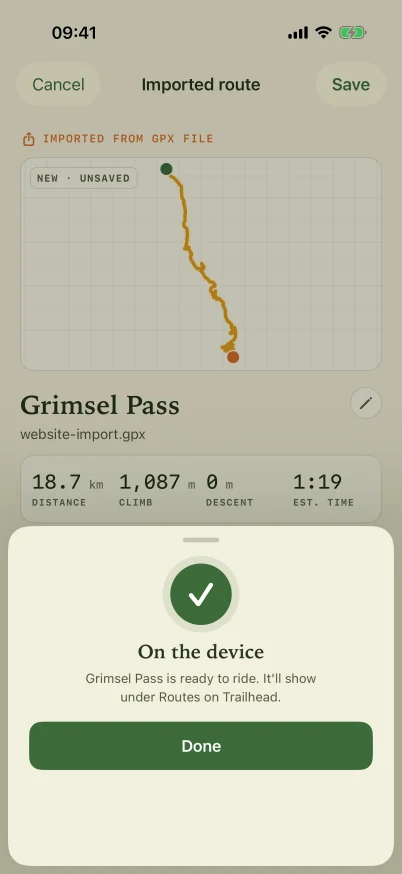
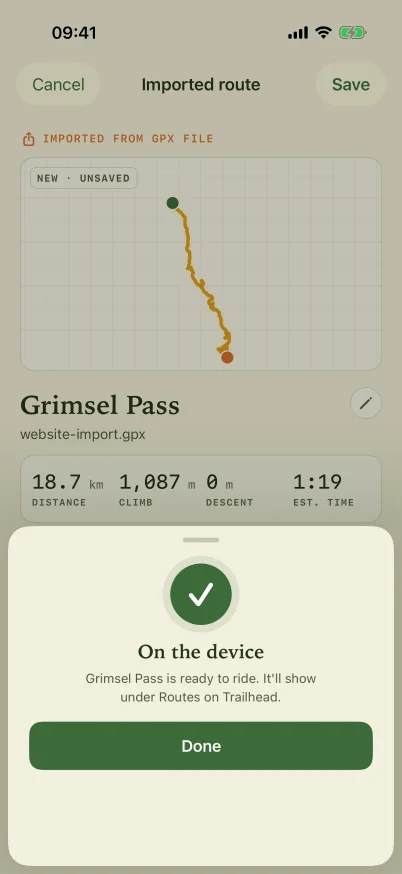
fix(ui): fit a tagged track below its corner tag
The hero tag covered the start dot. The grid fit and the map camera now
keep the track below the tag, on the ride, route and import heroes.

Changed region(s): [[0.3881, 0.1854, 0.597, 0.4325]]

diff --git a/companion-ios/Packages/OBCKit/Sources/OBCUI/Components/TrackPreviewView.swift b/companion-ios/Packages/OBCKit/Sources/OBCUI/Components/TrackPreviewView.swift
@@ -97,7 +97,8 @@ public struct TrackPreviewView: View {
             let transform = Self.fittingTransform(
                 for: preview,
                 in: size,
-                inset: style.dotRadius + 6
+                inset: style.dotRadius + 6,
+                topInset: tag == nil ? 0 : Self.tagBandHeight
             )
             let points = preview.points.map { transform($0) }
 
@@ -129,17 +130,22 @@ public struct TrackPreviewView: View {
         }
     }
 
+    /// The corner tag's height with its padding. A tagged fit starts below it, so the tag never
+    /// covers a node dot.
+    static let tagBandHeight: CGFloat = 34
+
     /// Maps unit-square track points into `size`, keeping the source aspect ratio
     /// (centred letterbox), with a uniform `inset` so round caps and node dots never
-    /// clip. Internal for the geometry unit tests.
+    /// clip, below a `topInset` band. Internal for the geometry unit tests.
     static func fittingTransform(
         for preview: TrackPreview,
         in size: CGSize,
-        inset: CGFloat
+        inset: CGFloat,
+        topInset: CGFloat = 0
     ) -> (TrackPreview.Point) -> CGPoint {
         let available = CGSize(
             width: max(size.width - 2 * inset, 1),
-            height: max(size.height - 2 * inset, 1)
+            height: max(size.height - 2 * inset - topInset, 1)
         )
         let aspect = preview.aspectRatio > 0 ? preview.aspectRatio : 1
         // Fit a rect of the track's aspect into the available box.
@@ -149,7 +155,7 @@ public struct TrackPreviewView: View {
         }
         let origin = CGPoint(
             x: (size.width - fitted.width) / 2,
-            y: (size.height - fitted.height) / 2
+            y: topInset + (size.height - topInset - fitted.height) / 2
         )
         return { point in
             CGPoint(

diff --git a/companion-ios/Packages/OBCKit/Tests/OBCUITests/TrackGeometryTests.swift b/companion-ios/Packages/OBCKit/Tests/OBCUITests/TrackGeometryTests.swift
@@ -39,6 +39,20 @@ final class TrackGeometryTests: XCTestCase {
         XCTAssertEqual(topLeft.y, 10, accuracy: 0.001)
     }
 
+    func testATopInsetFitsTheTrackBelowTheTag() {
+        // Aspect 0.5 into 100x100 with a 10pt inset and a 20pt band: 30x60, centred below the band.
+        let preview = TrackPreview(
+            points: [.init(x: 0, y: 0), .init(x: 1, y: 1)],
+            aspectRatio: 0.5
+        )
+        let transform = TrackPreviewView.fittingTransform(
+            for: preview, in: CGSize(width: 100, height: 100), inset: 10, topInset: 20
+        )
+        XCTAssertEqual(transform(.init(x: 0, y: 0)).y, 30, accuracy: 0.001)
+        XCTAssertEqual(transform(.init(x: 1, y: 1)).y, 90, accuracy: 0.001)
+        XCTAssertEqual(transform(.init(x: 0, y: 0)).x, 35, accuracy: 0.001)
+    }
+
     func testCenterPointStaysCentered() {
         let preview = TrackPreview(points: [.init(x: 0.5, y: 0.5)], aspectRatio: 1.7)
         let transform = TrackPreviewView.fittingTransform(

diff --git a/companion-ios/Packages/OBCKit/Sources/OBCUI/Map/MapTrackPreviewView.swift b/companion-ios/Packages/OBCKit/Sources/OBCUI/Map/MapTrackPreviewView.swift
@@ -81,6 +81,8 @@ public struct MapTrackPreviewView: View {
         // Always the light tile set: the design's palette is light throughout, and
         // Maps' dark tiles clash with the parchment chrome around it.
         .preferredColorScheme(.light)
+        // The camera frames the track inside the safe area, so this keeps it clear of the tag.
+        .safeAreaPadding(.top, tag == nil ? 0 : TrackPreviewView.tagBandHeight)
         .allowsHitTesting(false)
         .overlay(alignment: .topLeading) {
             if let tag { MapPreviewTag(tag, color: tagColor) }
